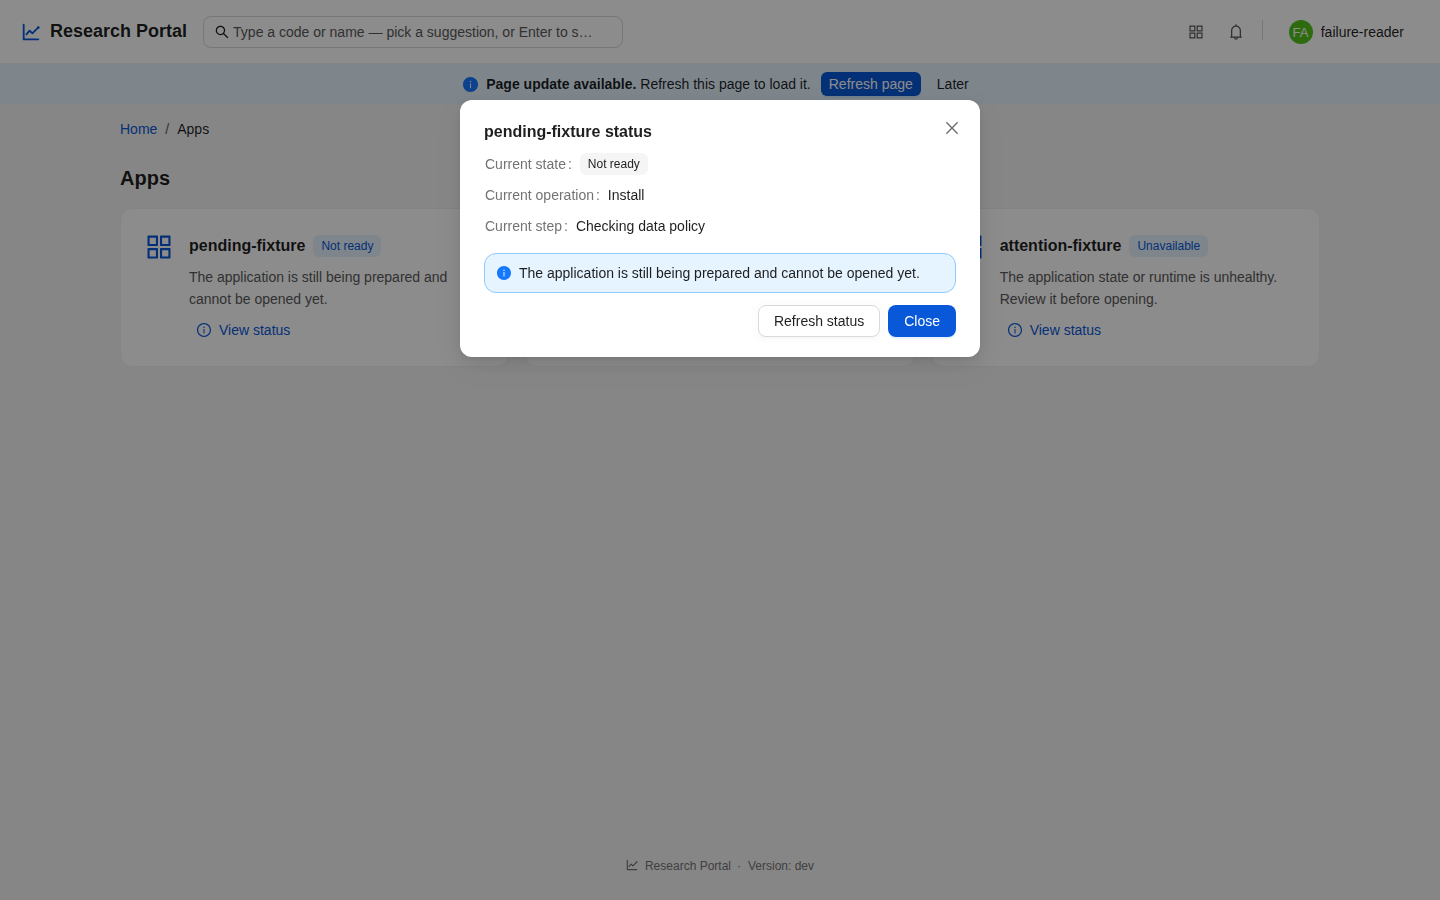
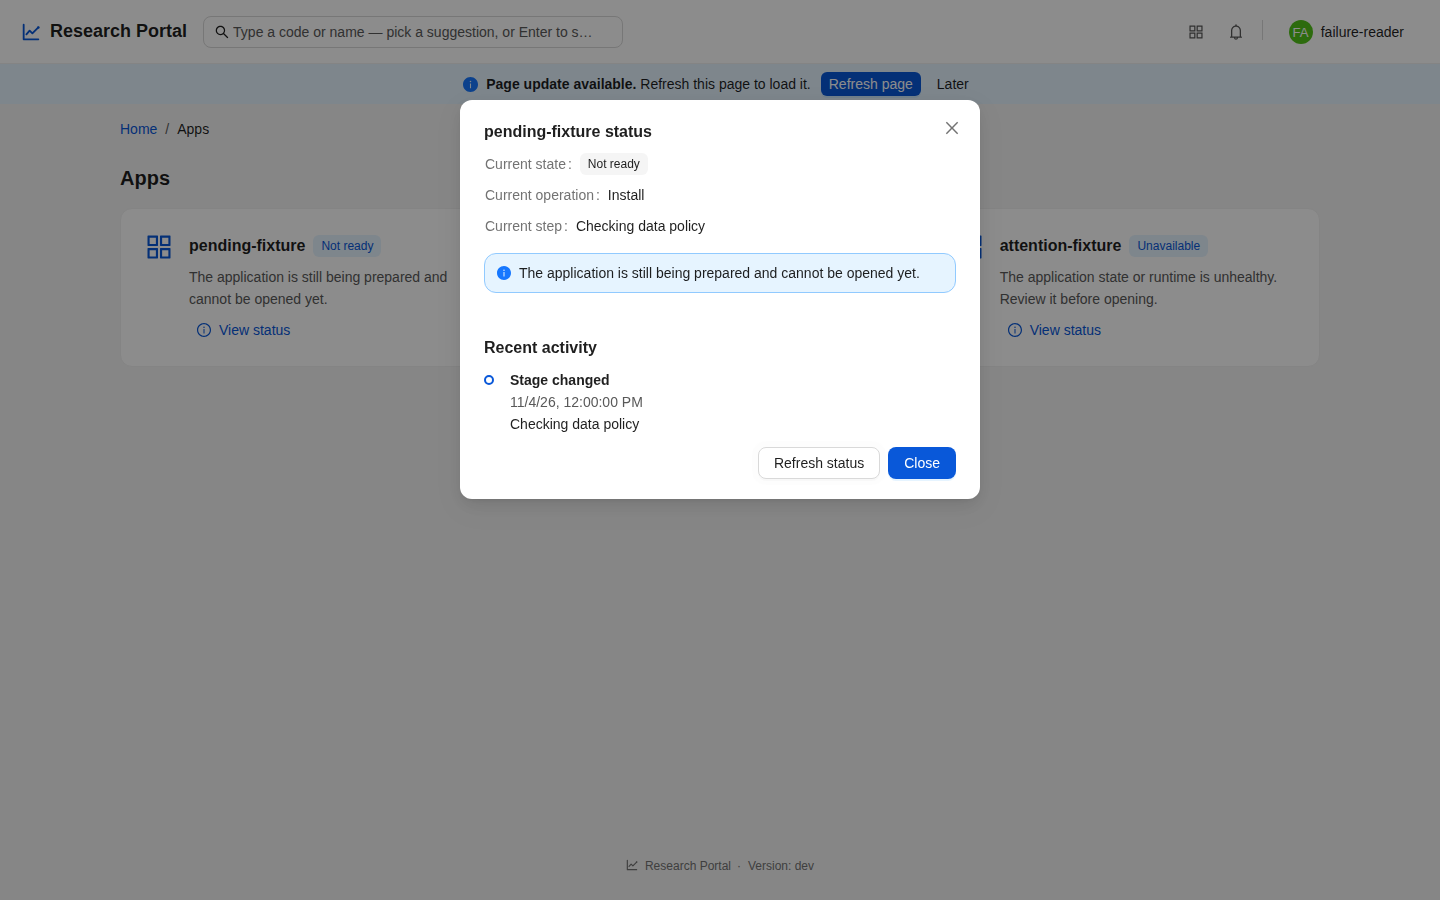
docs(app-platform): record operation timeline acceptance

Changed region(s): [[0.3125, 0.3111, 0.6875, 0.56]]

diff --git a/docs/app-platform/09-execution-log.md b/docs/app-platform/09-execution-log.md
@@ -2631,3 +2631,19 @@ daemon workflow 40455635317 passed on the functional source as well.
   development measurement, not the multi-host OPS-08 envelope or a real SMTP
   flood. See
   [task isolation evidence](handoff/evidence/platform-task-isolation/acceptance.json).
+
+- Closed the OPS-04 development diagnostic gap at `7f397e47`. The reader
+  status modal now reads at most 20 operation events from the existing
+  `audit_log`; it exposes only a normalized timestamp, fixed event class,
+  accepted operation stage and restricted error code. Actor, IP, endpoint,
+  namespace, effect and arbitrary detail keys are discarded. SQLite and
+  PostgreSQL tests cover the 20-event cap, audit-retention deletion, anonymous
+  and revoked-audience refusal, malformed queries and absence of internal IDs.
+  Chromium renders the timeline, drops injected private fields and keeps the
+  existing failure matrix axe-clean. The evidence reuses the existing audit
+  cleanup target with a 365-day default and 30-day floor; cleanup still ships
+  disabled by default, so production default retention enablement remains an
+  explicit owner decision rather than being changed silently. General
+  `41839627687`, quota/browser `41839627798`, runner daemon `41839627672` and
+  CodeQL `41839618971` pass. See
+  [application failure evidence](handoff/evidence/platform-failure/acceptance.json).
